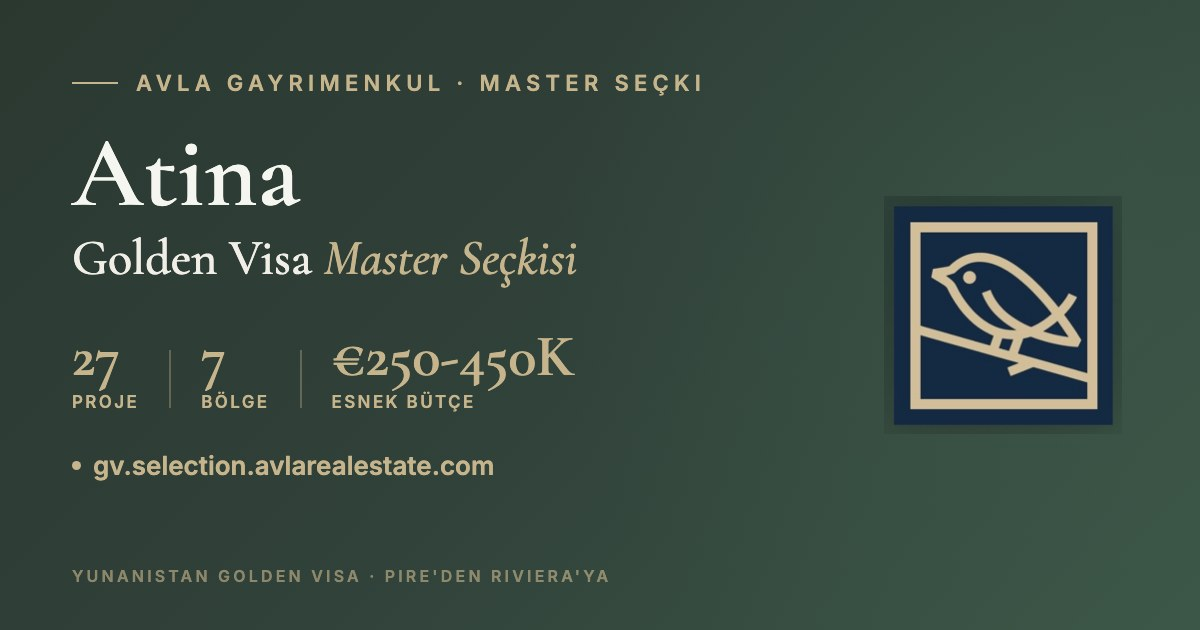
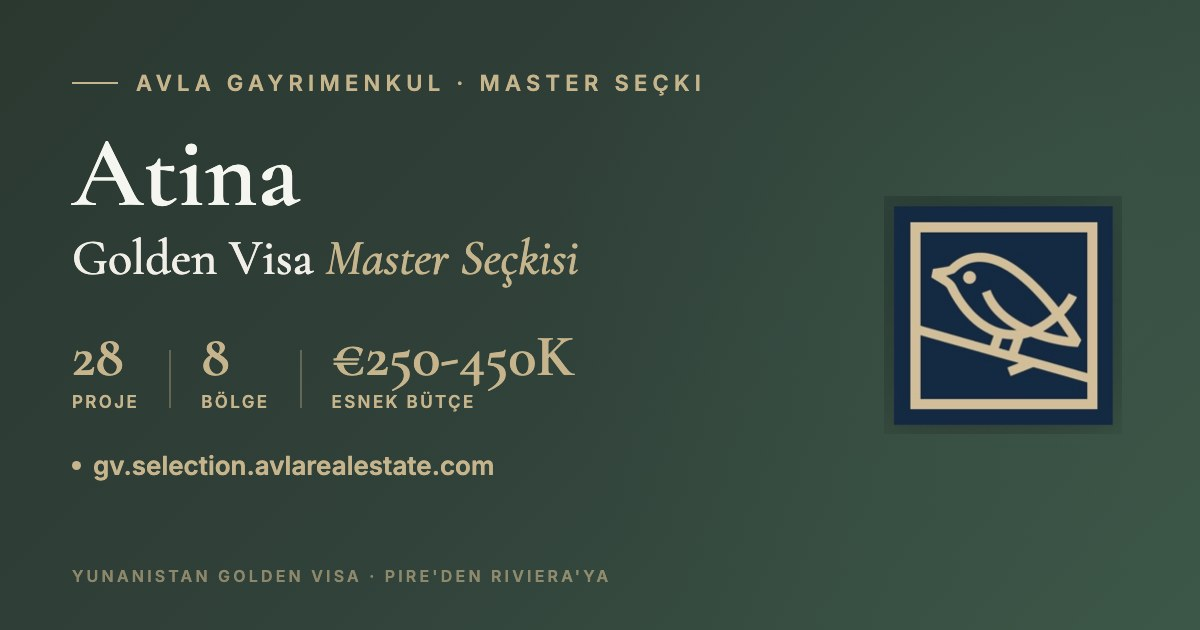
Selanik bolgesi + Thessaloniki Bay Residences karti (git'e hic islenmemis canli is geri alindi)
Bu is 26.08.2026'da yerelden yayina alinmis ama git'e ISLENMEMISTI: Drive'daki
calisma kopyasinda refs/heads/main yoktu ve 27.08 12:20'den kalma bir main.lock
git'i kilitliyordu (yarim kalmis commit). Sonuc: origin/main canlidan 3,2 KB geride
kaldi. Bugunku lightbox onarimi origin/main'den push edildigi icin bu kart canlidan
dustu; bu commit onu geri koyuyor (TR + EN + iki og-cover).

DERS: gv.selection deploy'u git-linked -- yerelden yayina alip commit etmemek
bir sonraki push'ta canliyi sessizce geri sariyor.

Changed region(s): [[0.2158, 0.3619, 0.4933, 0.4524], [0.0617, 0.5429, 0.1233, 0.6032], [0.1542, 0.5429, 0.2158, 0.6032]]

diff --git a/index.html b/index.html
@@ -3,17 +3,17 @@
 <head>
 <meta charset="UTF-8">
 <meta name="viewport" content="width=device-width, initial-scale=1.0">
-<meta name="description" content="Avla Gayrimenkul A.Ş. · Avla Atina Golden Visa · Master Seçki (27) — 27 proje, €250-450K · esnek, Atina Golden Visa master kataloğu.">
-<title>Avla · Atina Golden Visa · Master Seçki (27)</title>
+<meta name="description" content="Avla Gayrimenkul A.Ş. · Avla Atina Golden Visa · Master Seçki (28) — 28 proje, €250-450K · esnek, Atina Golden Visa master kataloğu.">
+<title>Avla · Atina Golden Visa · Master Seçki (28)</title>
 
 <!-- Open Graph (Facebook, WhatsApp, LinkedIn, Telegram) -->
 <meta property="og:type" content="website">
 <meta property="og:site_name" content="Avla Gayrimenkul">
-<meta property="og:title" content="Avla Atina Golden Visa · Master Seçki (27)">
-<meta property="og:description" content="Atina Golden Visa master kataloğu — 27 proje · Pire, Şehir Merkezi, Akademia Platonos, Mo · Kifisia / Nea Erythraiaschato, Agios Dimitrios ve Riviera akslarında, €250-450K bandında. Detaylı broşürler ve fizibilite raporlarıyla.">
+<meta property="og:title" content="Avla Atina Golden Visa · Master Seçki (28)">
+<meta property="og:description" content="Atina Golden Visa master kataloğu — 28 proje · Pire, Şehir Merkezi, Akademia Platonos, Mo · Kifisia / Nea Erythraiaschato, Agios Dimitrios ve Riviera akslarında, €250-450K bandında. Detaylı broşürler ve fizibilite raporlarıyla.">
 <meta property="og:url" content="https://gv.selection.avlarealestate.com/">
-<meta property="og:image" content="https://gv.selection.avlarealestate.com/og-cover.jpg?v=27">
-<meta property="og:image:secure_url" content="https://gv.selection.avlarealestate.com/og-cover.jpg?v=27">
+<meta property="og:image" content="https://gv.selection.avlarealestate.com/og-cover.jpg?v=28">
+<meta property="og:image:secure_url" content="https://gv.selection.avlarealestate.com/og-cover.jpg?v=28">
 <meta property="og:image:type" content="image/jpeg">
 <meta property="og:image:width" content="1200">
 <meta property="og:image:height" content="630">
@@ -22,9 +22,9 @@
 
 <!-- Twitter Card -->
 <meta name="twitter:card" content="summary_large_image">
-<meta name="twitter:title" content="Avla Atina Golden Visa · Master Seçki (27)">
-<meta name="twitter:description" content="Atina Golden Visa master kataloğu — 27 proje, €250-450K, Pire-Riviera çapraz aks.">
-<meta name="twitter:image" content="https://gv.selection.avlarealestate.com/og-cover.jpg?v=27">
+<meta name="twitter:title" content="Avla Atina Golden Visa · Master Seçki (28)">
+<meta name="twitter:description" content="Atina Golden Visa master kataloğu — 28 proje, €250-450K, Pire-Riviera çapraz aks.">
+<meta name="twitter:image" content="https://gv.selection.avlarealestate.com/og-cover.jpg?v=28">
 <meta name="twitter:image:alt" content="Avla Gayrimenkul · Atina Golden Visa Master Seçkisi">
 
 <link rel="icon" type="image/png" href="avla-logo.png">
@@ -196,6 +196,8 @@ header .container {
 .chip-kifisia:hover { background: #6d5a9c; border-color: #6d5a9c; }
 .chip-peristeri::before { background: #6a8a65; }
 .chip-peristeri:hover { background: #6a8a65; border-color: #6a8a65; }
+.chip-selanik::before { background: #2b5f80; }
+.chip-selanik:hover { background: #2b5f80; border-color: #2b5f80; }
 .cover-kuzey { background: linear-gradient(135deg, #3a2f55 0%, #54447c 60%, #6d5a9c 100%); }
 
 .chip-riviera:hover { background: #a05230; border-color: #a05230; }
@@ -278,6 +280,7 @@ section.portfolio { padding: 3.5rem 0 4.5rem; }
 .cover-aegina  { background: linear-gradient(135deg, #1F5A5C 0%, #327779 60%, #4a9d9c 100%); }
 .cover-merkez  { background: linear-gradient(135deg, #4A2330 0%, #6B3548 60%, #8a4a65 100%); }
 .cover-bati    { background: linear-gradient(135deg, #2F4A2F 0%, #4B6B48 60%, #6a8a65 100%); }
+.cover-selanik { background: linear-gradient(135deg, #1a3a5c 0%, #2b5f80 60%, #3a85a0 100%); }
 .cover-kallithea { background: linear-gradient(135deg, #4A3D1A 0%, #6B5832 60%, #8a7345 100%); }
 .cover-agdim   { background: linear-gradient(135deg, #2B2348 0%, #3D3565 60%, #524a85 100%); }
 .cover-kuzey   { background: linear-gradient(135deg, #1A4848 0%, #2B6868 60%, #3a8585 100%); }
@@ -1028,7 +1031,7 @@ j=d.createElement(s),dl=l!='dataLayer'?'&l='+l:'';j.async=true;j.src=
 </script>
 
 <script type="application/ld+json">
-{"@context":"https://schema.org","@graph":[{"@type":"RealEstateAgent","@id":"https://www.avlarealestate.com/#organization","name":"Avla Gayrimenkul A.Ş.","alternateName":["Avla Real Estate","Avla"],"url":"https://www.avlarealestate.com","logo":"https://static.wixstatic.com/media/34bb09_5eef637c30b14c0997ad8f2689842317~mv2.jpg","description":"Türk yatırımcılara Yunanistan Golden Visa danışmanlığı veren İstanbul merkezli ihtisas firması. 2014'ten beri.","email":"realestate@avla.com.tr","telephone":"+90 532 282 2657","sameAs":["https://www.wikidata.org/wiki/Q140042281","https://www.linkedin.com/company/avla-real-estate","https://twitter.com/avlugayrimenkul","https://www.instagram.com/avla.real.estate/","https://www.facebook.com/Avla.Re/"],"identifier":{"@type":"PropertyValue","propertyID":"Wikidata","value":"Q140042281"},"areaServed":[{"@type":"Country","name":"Yunanistan"},{"@type":"Country","name":"Türkiye"}],"knowsAbout":["Greek Golden Visa","Yunanistan Golden Visa","Greek Golden Visa for Turkish investors","Athens Real Estate","αλλαγή χρήσης","€250.000 threshold","Investment Migration Greece"]},{"@type":"ItemList","@id":"https://gv.selection.avlarealestate.com/#itemlist","name":"Avla Atina Golden Visa Master Seçki","description":"Atina Golden Visa için seçilmiş 27 proje · €250.000-€450.000 bandında · Pire, Şehir Merkezi, Akademia Platonos, Moschato, Agios Dimitrios ve Atina Riviera akslarında. Tüm projeler Avla bağımsız Yunan hukuk partnerliği ile doğrulanmıştır.","numberOfItems":27,"itemListOrder":"https://schema.org/ItemListOrderAscending","provider":{"@id":"https://www.avlarealestate.com/#organization"},"about":["Yunanistan Golden Visa","€250.000 αλλαγή χρήσης (kullanım değişikliği)","€400.000 Zone B residential","Türk yatırımcılar için Atina property portföyü"],"inLanguage":"tr","url":"https://gv.selection.avlarealestate.com/"},{"@type":"Service","@id":"https://gv.selection.avlarealestate.com/#service","name":"Atina Golden Visa Mülk Seçki Danışmanlığı","provider":{"@id":"https://www.avlarealestate.com/#organization"},"areaServed":{"@type":"Country","name":"Yunanistan"},"serviceType":"Real Estate Investment Advisory","description":"€250-450K Atina Golden Visa mülk seçki danışmanlığı. 27 doğrulanmış proje, αλλαγή χρήσης ve Zone B eşikleri için detaylı broşür ve fizibilite raporları."},{"@type":"FAQPage","@id":"https://gv.selection.avlarealestate.com/#faq","mainEntity":[{"@type":"Question","name":"Avla Atina Golden Visa Master Seçkisi nedir?","acceptedAnswer":{"@type":"Answer","text":"Avla Gayrimenkul A.Ş.'nin Atina'daki 27 doğrulanmış Golden Visa-uygun projesinin küratör seçkisi. Fiyat bandı €250.000-€450.000. Pire, Şehir Merkezi, Akademia Platonos, Moschato, Agios Dimitrios ve Atina Riviera akslarında konumlanır."}},{"@type":"Question","name":"€250.000'dan başlayan projeler hangileri?","acceptedAnswer":{"@type":"Answer","text":"Master seçkisinde €250.000 başlangıç fiyatlı projeler αλλαγή χρήσης (kullanım değişikliği) kategorisinde yer alır — ticari/endüstriyel mülkün belgelendirilmiş konuta dönüşümü sonrası Golden Visa €250K eşiğinde uygundur. Detaylar her proje broşüründe."}},{"@type":"Question","name":"Bu seçki nasıl belirlendi?","acceptedAnswer":{"@type":"Answer","text":"Avla'nın bağımsız Yunan hukuk partnerliği her projeyi 4 paralel kontrolden geçirir: tapu zinciri, kadastro, vergi temizliği, takyidat. Sadece dört kontrolden de temiz çıkan projeler seçkiye dahil edilir."}},{"@type":"Question","name":"Türk yatırımcı için bu seçki neden uygun?","acceptedAnswer":{"@type":"Answer","text":"Avla Türk vatandaşlarına özel ihtisas firmasıdır — Türkçe-İngilizce-Fransızca-Yunanca dört dilli uçtan uca süreç (TCMB sermaye ihracı, apostil, AFM, Yunan banka, tapu, GV başvurusu). Seçkideki her proje Türk yatırımcı profili için filtrelenmiştir."}},{"@type":"Question","name":"Detaylı broşür ve fizibilite raporlarına nasıl ulaşırım?","acceptedAnswer":{"@type":"Answer","text":"İletişim: realestate@avla.com.tr veya WhatsApp +90 532 282 2657. Avla ekibi profilinize uygun 2-3 projeyi seçer, detaylı broşür ve fizibilite raporlarını gönderir, ardından Atina ziyaret turu organizasyonu yapar."}}]},{"@type":"BreadcrumbList","itemListElement":[{"@type":"ListItem","position":1,"name":"Avla Gayrimenkul A.Ş.","item":"https://www.avlarealestate.com"},{"@type":"ListItem","position":2,"name":"Yunanistan Golden Visa","item":"https://www.avlarealestate.com/yunanistan-golden-visa"},{"@type":"ListItem","position":3,"name":"Atina Master Seçki","item":"https://gv.selection.avlarealestate.com/"}]}]}
+{"@context":"https://schema.org","@graph":[{"@type":"RealEstateAgent","@id":"https://www.avlarealestate.com/#organization","name":"Avla Gayrimenkul A.Ş.","alternateName":["Avla Real Estate","Avla"],"url":"https://www.avlarealestate.com","logo":"https://static.wixstatic.com/media/34bb09_5eef637c30b14c0997ad8f2689842317~mv2.jpg","description":"Türk yatırımcılara Yunanistan Golden Visa danışmanlığı veren İstanbul merkezli ihtisas firması. 2014'ten beri.","email":"realestate@avla.com.tr","telephone":"+90 532 282 2657","sameAs":["https://www.wikidata.org/wiki/Q140042281","https://www.linkedin.com/company/avla-real-estate","https://twitter.com/avlugayrimenkul","https://www.instagram.com/avla.real.estate/","https://www.facebook.com/Avla.Re/"],"identifier":{"@type":"PropertyValue","propertyID":"Wikidata","value":"Q140042281"},"areaServed":[{"@type":"Country","name":"Yunanistan"},{"@type":"Country","name":"Türkiye"}],"knowsAbout":["Greek Golden Visa","Yunanistan Golden Visa","Greek Golden Visa for Turkish investors","Athens Real Estate","αλλαγή χρήσης","€250.000 threshold","Investment Migration Greece"]},{"@type":"ItemList","@id":"https://gv.selection.avlarealestate.com/#itemlist","name":"Avla Atina Golden Visa Master Seçki","description":"Atina Golden Visa için seçilmiş 28 proje · €250.000-€450.000 bandında · Pire, Şehir Merkezi, Akademia Platonos, Moschato, Agios Dimitrios ve Atina Riviera akslarında. Tüm projeler Avla bağımsız Yunan hukuk partnerliği ile doğrulanmıştır.","numberOfItems":28,"itemListOrder":"https://schema.org/ItemListOrderAscending","provider":{"@id":"https://www.avlarealestate.com/#organization"},"about":["Yunanistan Golden Visa","€250.000 αλλαγή χρήσης (kullanım değişikliği)","€400.000 Zone B residential","Türk yatırımcılar için Atina property portföyü"],"inLanguage":"tr","url":"https://gv.selection.avlarealestate.com/"},{"@type":"Service","@id":"https://gv.selection.avlarealestate.com/#service","name":"Atina Golden Visa Mülk Seçki Danışmanlığı","provider":{"@id":"https://www.avlarealestate.com/#organization"},"areaServed":{"@type":"Country","name":"Yunanistan"},"serviceType":"Real Estate Investment Advisory","description":"€250-450K Atina Golden Visa mülk seçki danışmanlığı. 28 doğrulanmış proje, αλλαγή χρήσης ve Zone B eşikleri için detaylı broşür ve fizibilite raporları."},{"@type":"FAQPage","@id":"https://gv.selection.avlarealestate.com/#faq","mainEntity":[{"@type":"Question","name":"Avla Atina Golden Visa Master Seçkisi nedir?","acceptedAnswer":{"@type":"Answer","text":"Avla Gayrimenkul A.Ş.'nin Atina'daki 28 doğrulanmış Golden Visa-uygun projesinin küratör seçkisi. Fiyat bandı €250.000-€450.000. Pire, Şehir Merkezi, Akademia Platonos, Moschato, Agios Dimitrios ve Atina Riviera akslarında konumlanır."}},{"@type":"Question","name":"€250.000'dan başlayan projeler hangileri?","acceptedAnswer":{"@type":"Answer","text":"Master seçkisinde €250.000 başlangıç fiyatlı projeler αλλαγή χρήσης (kullanım değişikliği) kategorisinde yer alır — ticari/endüstriyel mülkün belgelendirilmiş konuta dönüşümü sonrası Golden Visa €250K eşiğinde uygundur. Detaylar her proje broşüründe."}},{"@type":"Question","name":"Bu seçki nasıl belirlendi?","acceptedAnswer":{"@type":"Answer","text":"Avla'nın bağımsız Yunan hukuk partnerliği her projeyi 4 paralel kontrolden geçirir: tapu zinciri, kadastro, vergi temizliği, takyidat. Sadece dört kontrolden de temiz çıkan projeler seçkiye dahil edilir."}},{"@type":"Question","name":"Türk yatırımcı için bu seçki neden uygun?","acceptedAnswer":{"@type":"Answer","text":"Avla Türk vatandaşlarına özel ihtisas firmasıdır — Türkçe-İngilizce-Fransızca-Yunanca dört dilli uçtan uca süreç (TCMB sermaye ihracı, apostil, AFM, Yunan banka, tapu, GV başvurusu). Seçkideki her proje Türk yatırımcı profili için filtrelenmiştir."}},{"@type":"Question","name":"Detaylı broşür ve fizibilite raporlarına nasıl ulaşırım?","acceptedAnswer":{"@type":"Answer","text":"İletişim: realestate@avla.com.tr veya WhatsApp +90 532 282 2657. Avla ekibi profilinize uygun 2-3 projeyi seçer, detaylı broşür ve fizibilite raporlarını gönderir, ardından Atina ziyaret turu organizasyonu yapar."}}]},{"@type":"BreadcrumbList","itemListElement":[{"@type":"ListItem","position":1,"name":"Avla Gayrimenkul A.Ş.","item":"https://www.avlarealestate.com"},{"@type":"ListItem","position":2,"name":"Yunanistan Golden Visa","item":"https://www.avlarealestate.com/yunanistan-golden-visa"},{"@type":"ListItem","position":3,"name":"Atina Master Seçki","item":"https://gv.selection.avlarealestate.com/"}]}]}
 </script>
 
 
@@ -1123,7 +1126,7 @@ j=d.createElement(s),dl=l!='dataLayer'?'&l='+l:'';j.async=true;j.src=
     </a>
     <div class="header-right">
       <div class="header-meta">
-        <strong>Master Katalog</strong> · 27 Proje · 30 Haziran 2026
+        <strong>Master Katalog</strong> · 28 Proje · 30 Haziran 2026
       </div>
       <div class="lang-switch" aria-label="Dil seçenekleri">
         <a class="active" href="/" aria-current="page">TR</a>
@@ -1134,7 +1137,7 @@ j=d.createElement(s),dl=l!='dataLayer'?'&l='+l:'';j.async=true;j.src=
 </header>
 <section class="hero">
   <div class="container hero-content">
-    <div class="hero-eyebrow">Avla Gayrimenkul · 27 Proje · Pire · Şehir Merkezi · Riviera · Kifisia / Nea Erythraia</div>
+    <div class="hero-eyebrow">Avla Gayrimenkul · 28 Proje · Pire · Şehir Merkezi · Riviera · Kifisia / Nea Erythraia</div>
     <h1>Atina Golden Visa <em>Master Seçkisi</em></h1>
     <p class="lead">Atina'nın doğu-batı eksenindeki <strong><span data-auto="proje-total">15</span> seçkin Golden Visa projesi</strong> — €250-450K geniş bütçe yelpazesinde, Pire'den Riviera'ya, Akademia Platonos'tan Agios Dimitrios'a uzanan <span data-auto="bolge">6</span> ana bölgede özenle eklenmiş Avla portföyü. Tüm projeler için detaylı broşürler, bölge raporları ve fizibilite çalışmaları sunulmuştur.</p>
     <div class="hero-stats">
@@ -1313,6 +1316,7 @@ j=d.createElement(s),dl=l!='dataLayer'?'&l='+l:'';j.async=true;j.src=
       <button class="chip chip-riviera" data-subregion="riviera" title="Güney Atina · Riviera">Güney Atina · Riviera</button>
       <button class="chip chip-kifisia" data-subregion="kifisia" title="Kifisia · Nea Erythraia (Kuzey Atina)">Kifisia · Nea Erythraia</button>
       <button class="chip chip-peristeri" data-subregion="peristeri" title="Peristeri (Batı Atina)">Peristeri</button>
+      <button class="chip chip-selanik" data-subregion="selanik" title="Selanik (Kuzey Yunanistan)">Selanik</button>
     </div>
   </div>
 </div>
@@ -1322,7 +1326,7 @@ j=d.createElement(s),dl=l!='dataLayer'?'&l='+l:'';j.async=true;j.src=
     <div class="map-head">
       <div class="hero-eyebrow"><span class="m-berkay">Avla'nın Atina Golden Visa Master Seçkisi · <span data-auto="proje-berkay">22</span> Proje</span><span class="m-avla"><span data-auto="proje-total">22</span> Avla Seçkisini Haritada Gör · ★ Danışmanınız Athena'nın Seçkisi</span></div>
       <h2><span class="m-berkay">Pire'den <em>Riviera</em>'ya</span><span class="m-avla">Pire'den <em>Riviera</em>'ya</span></h2>
-      <p class="map-sub"><span class="m-berkay">27 proje · Pire · Renti · Mikrolimano · Ampelokipi · Pangrati · Moschato · Agios Dimitrios · Akademia Platonos · Elliniko · Glyfada — pin'e tıklayın, detay görün.</span><span class="m-avla"><span data-auto="proje-total">22</span> Avla projesinin tamamı — <span data-auto="proje-total">22</span> Avla GV projesi — pin'e tıklayın detay görün.</span></p>
+      <p class="map-sub"><span class="m-berkay">28 proje · Pire · Renti · Mikrolimano · Ampelokipi · Pangrati · Moschato · Agios Dimitrios · Akademia Platonos · Elliniko · Glyfada — pin'e tıklayın, detay görün.</span><span class="m-avla"><span data-auto="proje-total">22</span> Avla projesinin tamamı — <span data-auto="proje-total">22</span> Avla GV projesi — pin'e tıklayın detay görün.</span></p>
     </div>
     <div id="avla-map"></div>
     <div class="map-legend">
@@ -1335,6 +1339,7 @@ j=d.createElement(s),dl=l!='dataLayer'?'&l='+l:'';j.async=true;j.src=
       <span class="legend-item"><i style="background:#a05230"></i>Güney Atina · Riviera</span>
       <span class="legend-item"><i style="background:#6d5a9c"></i>Kifisia · Nea Erythraia</span>
       <span class="legend-item"><i style="background:#6a8a65"></i>Peristeri</span>
+      <span class="legend-item"><i style="background:#2b5f80"></i>Selanik</span>
             <span class="legend-item"><i style="background:#2f8f7d"></i>Lefkada</span>
     </div>
   </div>
@@ -2290,6 +2295,47 @@ j=d.createElement(s),dl=l!='dataLayer'?'&l='+l:'';j.async=true;j.src=
       </div>
     </div>
 
+    <div class="group-head" data-group="selanik">
+      <h3>Selanik · Kuzey Yunanistan <small>Selanik · 1 Proje</small></h3>
+      <span class="group-tag">SELANİK</span>
+    </div>
+    <div class="property-grid">
+      <div class="property has-photo" data-berkay-selection="0" data-region="selanik" data-budget="fit">
+        <div class="property-cover cover-selanik">
+          <img width="1000" height="563" class="cover-img" src="/img/covers/thessaloniki-bay-9bc200b8.webp" loading="lazy" decoding="async" alt="Thessaloniki Bay Residences — Selanik">
+          <div class="cover-overlay"></div>
+          <div class="cover-name-block">
+            <div class="cover-name">Thessaloniki Bay Residences</div>
+          </div>
+        </div>
+        <div class="property-body">
+          <h3 class="property-title">Thessaloniki Bay Residences</h3>
+          <div class="property-location">Selanik · Kuzey Yunanistan</div>
+          <div class="specs">
+            <div class="spec"><span class="lbl">Daire Tipi</span><span class="val">1+1 (37 ünite)</span></div>
+            <div class="spec"><span class="lbl">Fiyat Bandı</span><span class="val">€250.000 – €397.000</span></div>
+            <div class="spec"><span class="lbl">Kira</span><span class="val">3 yıl %3 garanti</span></div>
+            <div class="spec"><span class="lbl">Manzara</span><span class="val">Selanik Körfezi manzarası</span></div>
+          </div>
+          <div class="tags"><span class="tag">Golden Visa</span><span class="tag">Deniz Manzarası</span><span class="tag">Kira Garantisi</span><span class="tag">%10 Peşinat</span><span class="tag">Ön-Satış</span></div>
+          <div class="rating">
+            <div class="rating-row"><span class="rating-lbl">Konum</span><span class="rating-stars" data-score="4.5">★★★★<span class="rating-half">★</span></span></div>
+            <div class="rating-row"><span class="rating-lbl">Yatırım</span><span class="rating-stars" data-score="4.5">★★★★<span class="rating-half">★</span></span></div>
+            <div class="rating-row"><span class="rating-lbl">Yapı</span><span class="rating-stars" data-score="4">★★★★</span></div>
+            <div class="rating-row"><span class="rating-lbl">Likidite</span><span class="rating-stars" data-score="4">★★★★</span></div>
+          </div>
+          <div class="note">Selanik'in doğu sahilinde, kıyı parkına yürüme mesafesinde butik 1+1 rezidanslar (33–53 m²; balkonla 37–63 m²). Üst katlarda Selanik Körfezi manzarası. 3 yıl %3 kira garantisi, %10 peşinat + 3 taksit, teslim Haziran 2028. €250.000–€397.000; Golden Visa'ya uygun. Yunanistan'ın ikinci metropolünde yıl boyu kiracı tabanı.</div>
+          <div class="yorum-content" id="yorum-thessaloniki-bay-residences" data-rank="19" hidden>Thessaloniki Bay Residences — Selanik'in doğu sahilinde, kıyı parkına yürüme mesafesinde butik bir 1+1 rezidans projesi (37 ünite; 33–53 m², balkonla 37–63 m²). Üst katlarda Selanik Körfezi manzarası. 3 yıl %3 kira garantisi, %10 peşinat + 3 taksit ödeme planı; teslim Haziran 2028. €250.000–€397.000 bandıyla Golden Visa'ya uygun. Yunanistan'ın ikinci metropolü Selanik'in üniversite, hastane ve iş merkezleriyle beslenen yıl boyu kiracı tabanı, kira garantisinin ötesinde uzun vadeli doluluk güvencesi sağlıyor.</div>
+          <div class="actions">
+            <a class="btn btn-primary" href="https://a0182assets.vercel.app/a0182_tanitim.mp4" target="_blank" rel="noopener">▶ Video</a>
+            <a class="btn btn-outline" href="https://www.google.com/maps/search/?api=1&query=Thessaloniki%2C+Greece" target="_blank">Konum</a>
+            <button type="button" class="btn btn-yorum yorum-btn" data-yorum-target="yorum-thessaloniki-bay-residences">Yorum</button>
+            <a class="btn btn-info" href="https://www.avlarealestate.com/properties/thessaloniki-bay-residences-thessaloniki" target="_blank" rel="noopener">İlan</a>
+          </div>
+        </div>
+      </div>
+    </div>
+
   </div>
 </section>
 
@@ -2407,7 +2453,7 @@ j=d.createElement(s),dl=l!='dataLayer'?'&l='+l:'';j.async=true;j.src=
   <div class="footer-tag">Avla Gayrimenkul A.Ş.</div>
   <div class="footer-meta">
     <strong>Katalog:</strong> Avla Atina Master &nbsp;·&nbsp; <strong>Bütçe:</strong> €250-450K &nbsp;·&nbsp; <strong>Teslim:</strong> Hazır — 2028 Q4<br>
-    <strong>Strateji:</strong> Atina Golden Visa master kataloğu · 27 proje · Pire + Şehir Merkezi + Riviera + Moschato + Akademia Platonos + Agios Dimitrios<br>
+    <strong>Strateji:</strong> Atina Golden Visa master kataloğu · 28 proje · Pire + Şehir Merkezi + Riviera + Moschato + Akademia Platonos + Agios Dimitrios<br>
     <strong>Hazırlayan:</strong> Sami Akbeniz · Avla Gayrimenkul A.Ş. &nbsp;·&nbsp; realestate@avla.com.tr · +90 532 282 2657
   </div>
   <div class="footer-wa">
@@ -2492,6 +2538,7 @@ const subRegionMap = {
   'yorum-the-one-glyfada': 'riviera',
   'yorum-the-north-village': 'kifisia',
   'yorum-terrace-heights': 'peristeri',
+  'yorum-thessaloniki-bay-residences': 'selanik',
   'yorum-t18-city-residences': 'merkez',
   'yorum-ap37-suites': 'agios-dimitrios'
 };
@@ -2516,6 +2563,7 @@ const neighborhoodMap = {
   'yorum-the-one-glyfada': 'Glyfada',
   'yorum-the-north-village': 'Nea Erythraia',
   'yorum-terrace-heights': 'Peristeri',
+  'yorum-thessaloniki-bay-residences': 'Selanik',
   'yorum-t18-city-residences': 'Atina Merkezi',
   'yorum-ap37-suites': 'Agios Dimitrios'
 };
@@ -2586,7 +2634,7 @@ document.querySelectorAll('.chip[data-subregion]').forEach(chip => {
 
 
 // Group-head h3 + group-tag tıklaması: ilgili chip'i tetikle (filter + scroll)
-const groupToChipMap = {'pire':'pire','aegina':'aegina','merkez':'merkez','riviera':'riviera','kuzey':'kifisia','bati':'peristeri'};
+const groupToChipMap = {'pire':'pire','aegina':'aegina','merkez':'merkez','riviera':'riviera','kuzey':'kifisia','bati':'peristeri','selanik':'selanik'};
 document.querySelectorAll('.group-head').forEach(gh => {
   const groupName = gh.dataset.group;
   const chipKey = groupToChipMap[groupName];
@@ -2648,12 +2696,13 @@ function AVLA_HARITA_INIT(){
     {"code": "AV-OIK-04", "name": "THE ONE Glyfada ★", "region": "riviera", "color": "#a05230", "lat": 37.8807, "lng": 23.7552, "addr": "Vouliagmenis Ave, Glyfada, Athens", "brochure": "17_the_one_glyfada.pdf", "bg": true},
     {"code": "AV-RNT-01", "name": "The North Village ★", "region": "kuzey", "color": "#6d5a9c", "lat": 38.087, "lng": 23.805, "addr": "Nea Erythraia · Kifisia", "brochure": "20_the_north_village.pdf", "bg": true},
     {"code": "AV-PER-01", "name": "Terrace Heights ★", "region": "bati", "color": "#6a8a65", "lat": 38.0186, "lng": 23.6960, "addr": "Peristeri, West Athens", "ilan": "https://www.avlarealestate.com/properties/terrace-heights-peristeri-west-athens-golden-visa", "bg": true},
-          {"code": "AV-LEF-01", "name": "Lefkada Crystal Waters", "region": "lefkada", "color": "#2f8f7d", "lat": 38.7647, "lng": 20.7222, "addr": "Nikiana, Lefkada", "brochure": "29_lefkada_crystal_waters.pdf", "bg": true}
+          {"code": "AV-LEF-01", "name": "Lefkada Crystal Waters", "region": "lefkada", "color": "#2f8f7d", "lat": 38.7647, "lng": 20.7222, "addr": "Nikiana, Lefkada", "brochure": "29_lefkada_crystal_waters.pdf", "bg": true},
+    {"code": "AV-TH-01", "name": "Thessaloniki Bay Residences", "region": "selanik", "color": "#2b5f80", "lat": 40.60, "lng": 22.95, "addr": "Thessaloniki, Greece", "ilan": "https://www.avlarealestate.com/properties/thessaloniki-bay-residences-thessaloniki", "bg": true}
   ];
   const map = L.map('avla-map', { scrollWheelZoom: false }).setView([37.96, 23.72], 11);
-  L.tileLayer('https://{s}.basemaps.cartocdn.com/light_all/{z}/{x}/{y}{r}.png', {
-    attribution: '&copy; OpenStreetMap &copy; CARTO',
-    subdomains: 'abcd', maxZoom: 19
+  L.tileLayer('https://server.arcgisonline.com/ArcGIS/rest/services/Canvas/World_Light_Gray_Base/MapServer/tile/{z}/{y}/{x}', {
+    attribution: '&copy; Esri &copy; OpenStreetMap contributors',
+    subdomains: 'abcd', maxZoom:16
   }).addTo(map);
   function makeIcon(color) {
     return L.divIcon({

diff --git a/en/index.html b/en/index.html
@@ -3,17 +3,17 @@
 <head>
 <meta charset="UTF-8">
 <meta name="viewport" content="width=device-width, initial-scale=1.0">
-<meta name="description" content="Avla Real Estate · Avla Atina Golden Visa · Master Seçki (27) — 27 proje, €250-450K · esnek, Atina Golden Visa master kataloğu.">
-<title>Avla · Athens Golden Visa · Master Selection (27)</title>
+<meta name="description" content="Avla Real Estate · Avla Atina Golden Visa · Master Seçki (28) — 28 proje, €250-450K · esnek, Atina Golden Visa master kataloğu.">
+<title>Avla · Athens Golden Visa · Master Selection (28)</title>
 
 <!-- Open Graph (Facebook, WhatsApp, LinkedIn, Telegram) -->
 <meta property="og:type" content="website">
 <meta property="og:site_name" content="Avla Gayrimenkul">
-<meta property="og:title" content="Avla Atina Golden Visa · Master Seçki (27)">
-<meta property="og:description" content="Athens Golden Visa master catalog — 27 projects across Piraeus, City Center, Akademia Platonos, Mos · Kifisia / Nea Erythraiachato, Agios Dimitrios and Riviera axes, in the €250-450K range. With detailed brochures and feasibility reports.">
+<meta property="og:title" content="Avla Atina Golden Visa · Master Seçki (28)">
+<meta property="og:description" content="Athens Golden Visa master catalog — 28 projects across Piraeus, City Center, Akademia Platonos, Mos · Kifisia / Nea Erythraiachato, Agios Dimitrios and Riviera axes, in the €250-450K range. With detailed brochures and feasibility reports.">
 <meta property="og:url" content="https://gv.selection.avlarealestate.com/">
-<meta property="og:image" content="https://gv.selection.avlarealestate.com/en/og-cover.jpg?v=27">
-<meta property="og:image:secure_url" content="https://gv.selection.avlarealestate.com/en/og-cover.jpg?v=27">
+<meta property="og:image" content="https://gv.selection.avlarealestate.com/en/og-cover.jpg?v=28">
+<meta property="og:image:secure_url" content="https://gv.selection.avlarealestate.com/en/og-cover.jpg?v=28">
 <meta property="og:image:type" content="image/jpeg">
 <meta property="og:image:width" content="1200">
 <meta property="og:image:height" content="630">
@@ -22,9 +22,9 @@
 
 <!-- Twitter Card -->
 <meta name="twitter:card" content="summary_large_image">
-<meta name="twitter:title" content="Avla Atina Golden Visa · Master Seçki (27)">
-<meta name="twitter:description" content="Athens Golden Visa master catalog — 27 projects, €250-450K, Piraeus-Riviera cross axis.">
-<meta name="twitter:image" content="https://gv.selection.avlarealestate.com/en/og-cover.jpg?v=27">
+<meta name="twitter:title" content="Avla Atina Golden Visa · Master Seçki (28)">
+<meta name="twitter:description" content="Athens Golden Visa master catalog — 28 projects, €250-450K, Piraeus-Riviera cross axis.">
+<meta name="twitter:image" content="https://gv.selection.avlarealestate.com/en/og-cover.jpg?v=28">
 <meta name="twitter:image:alt" content="Avla Real Estate · Athens Golden Visa Master Selection">
 
 <link rel="icon" type="image/png" href="avla-logo.png">
@@ -196,6 +196,8 @@ header .container {
 .chip-kifisia:hover { background: #6d5a9c; border-color: #6d5a9c; }
 .chip-peristeri::before { background: #6a8a65; }
 .chip-peristeri:hover { background: #6a8a65; border-color: #6a8a65; }
+.chip-selanik::before { background: #2b5f80; }
+.chip-selanik:hover { background: #2b5f80; border-color: #2b5f80; }
 .cover-kuzey { background: linear-gradient(135deg, #3a2f55 0%, #54447c 60%, #6d5a9c 100%); }
 
 .chip-riviera:hover { background: #a05230; border-color: #a05230; }
@@ -278,6 +280,7 @@ section.portfolio { padding: 3.5rem 0 4.5rem; }
 .cover-aegina  { background: linear-gradient(135deg, #1F5A5C 0%, #327779 60%, #4a9d9c 100%); }
 .cover-merkez  { background: linear-gradient(135deg, #4A2330 0%, #6B3548 60%, #8a4a65 100%); }
 .cover-bati    { background: linear-gradient(135deg, #2F4A2F 0%, #4B6B48 60%, #6a8a65 100%); }
+.cover-selanik { background: linear-gradient(135deg, #1a3a5c 0%, #2b5f80 60%, #3a85a0 100%); }
 .cover-kallithea { background: linear-gradient(135deg, #4A3D1A 0%, #6B5832 60%, #8a7345 100%); }
 .cover-agdim   { background: linear-gradient(135deg, #2B2348 0%, #3D3565 60%, #524a85 100%); }
 .cover-kuzey   { background: linear-gradient(135deg, #1A4848 0%, #2B6868 60%, #3a8585 100%); }
@@ -1106,7 +1109,7 @@ j=d.createElement(s),dl=l!='dataLayer'?'&l='+l:'';j.async=true;j.src=
     </a>
     <div class="header-right">
       <div class="header-meta">
-        <strong>Master Selection</strong> · 27 Projects · 30 June 2026
+        <strong>Master Selection</strong> · 28 Projects · 30 June 2026
       </div>
       <div class="lang-switch" aria-label="Language selector">
         <a href="/" hreflang="tr" title="Türkçe sürüm">TR</a>
@@ -1117,7 +1120,7 @@ j=d.createElement(s),dl=l!='dataLayer'?'&l='+l:'';j.async=true;j.src=
 </header>
 <section class="hero">
   <div class="container hero-content">
-    <div class="hero-eyebrow">Avla Real Estate · 27 Projects · Piraeus · City Center · Riviera · Kifisia / Nea Erythraia</div>
+    <div class="hero-eyebrow">Avla Real Estate · 28 Projects · Piraeus · City Center · Riviera · Kifisia / Nea Erythraia</div>
     <h1>Athens Golden Visa <em>Master Selection</em></h1>
     <p class="lead"><strong><span data-auto="proje-total">15</span> curated Golden Visa projects</strong> across the east-west axis of Athens — in the broad €250-450K budget range, from Piraeus to the Riviera, from Akademia Platonos to Agios Dimitrios — the Avla portfolio spans 6 main regions. Detailed brochures, regional reports, and feasibility studies are provided for every project.</p>
     <div class="hero-stats">
@@ -1296,6 +1299,7 @@ j=d.createElement(s),dl=l!='dataLayer'?'&l='+l:'';j.async=true;j.src=
       <button class="chip chip-riviera" data-subregion="riviera" title="South Athens · Riviera">South Athens · Riviera</button>
       <button class="chip chip-kifisia" data-subregion="kifisia" title="Kifisia · Nea Erythraia (North Athens)">Kifisia · Nea Erythraia</button>
       <button class="chip chip-peristeri" data-subregion="peristeri" title="Peristeri (West Athens)">Peristeri</button>
+      <button class="chip chip-selanik" data-subregion="selanik" title="Thessaloniki (Northern Greece)">Thessaloniki</button>
     </div>
   </div>
 </div>
@@ -1318,6 +1322,7 @@ j=d.createElement(s),dl=l!='dataLayer'?'&l='+l:'';j.async=true;j.src=
       <span class="legend-item"><i style="background:#a05230"></i>South Athens · Riviera</span>
       <span class="legend-item"><i style="background:#6d5a9c"></i>Kifisia · Nea Erythraia</span>
       <span class="legend-item"><i style="background:#6a8a65"></i>Peristeri</span>
+      <span class="legend-item"><i style="background:#2b5f80"></i>Thessaloniki</span>
             <span class="legend-item"><i style="background:#2f8f7d"></i>Lefkada</span>
     </div>
   </div>
@@ -2273,6 +2278,47 @@ j=d.createElement(s),dl=l!='dataLayer'?'&l='+l:'';j.async=true;j.src=
       </div>
     </div>
 
+    <div class="group-head" data-group="selanik">
+      <h3>Thessaloniki · Northern Greece <small>Thessaloniki · 1 Project</small></h3>
+      <span class="group-tag">THESSALONIKI</span>
+    </div>
+    <div class="property-grid">
+      <div class="property has-photo" data-berkay-selection="0" data-region="selanik" data-budget="fit">
+        <div class="property-cover cover-selanik">
+          <img width="1000" height="563" class="cover-img" src="/img/covers/thessaloniki-bay-9bc200b8.webp" loading="lazy" decoding="async" alt="Thessaloniki Bay Residences — Thessaloniki">
+          <div class="cover-overlay"></div>
+          <div class="cover-name-block">
+            <div class="cover-name">Thessaloniki Bay Residences</div>
+          </div>
+        </div>
+        <div class="property-body">
+          <h3 class="property-title">Thessaloniki Bay Residences</h3>
+          <div class="property-location">Thessaloniki · Northern Greece</div>
+          <div class="specs">
+            <div class="spec"><span class="lbl">Home Types</span><span class="val">1-Bed (37 units)</span></div>
+            <div class="spec"><span class="lbl">Price Band</span><span class="val">€250,000 – €397,000</span></div>
+            <div class="spec"><span class="lbl">Rental</span><span class="val">3% × 3 yrs guaranteed</span></div>
+            <div class="spec"><span class="lbl">Views</span><span class="val">Bay views</span></div>
+          </div>
+          <div class="tags"><span class="tag">Golden Visa</span><span class="tag">Sea View</span><span class="tag">Rental Guarantee</span><span class="tag">10% Down</span><span class="tag">Pre-Sale</span></div>
+          <div class="rating">
+            <div class="rating-row"><span class="rating-lbl">Location</span><span class="rating-stars" data-score="4.5">★★★★<span class="rating-half">★</span></span></div>
+            <div class="rating-row"><span class="rating-lbl">Investment</span><span class="rating-stars" data-score="4.5">★★★★<span class="rating-half">★</span></span></div>
+            <div class="rating-row"><span class="rating-lbl">Build</span><span class="rating-stars" data-score="4">★★★★</span></div>
+            <div class="rating-row"><span class="rating-lbl">Liquidity</span><span class="rating-stars" data-score="4">★★★★</span></div>
+          </div>
+          <div class="note">Boutique 1-bed residences on Thessaloniki's eastern seafront, a short walk from the coastal park (33–53 m²; 37–63 m² with balconies). Upper floors enjoy bay views. 3% rental guarantee for 3 years, 10% down + 3 instalments, delivery June 2028. €250,000–€397,000; Golden Visa eligible. A year-round tenant base in Greece's second metropolis.</div>
+          <div class="yorum-content" id="yorum-thessaloniki-bay-residences" data-rank="19" hidden>Thessaloniki Bay Residences — a boutique 1-bed residence project on Thessaloniki's eastern seafront, a short walk from the coastal park (37 units; 33–53 m², 37–63 m² with balconies). Upper floors enjoy bay views. 3% rental guarantee for 3 years, 10% down + 3 instalments; delivery June 2028. Priced €250,000–€397,000 and Golden Visa eligible. Thessaloniki — Greece's second metropolis with universities, hospitals and business hubs — supplies a year-round tenant base that underpins occupancy well beyond the guarantee period.</div>
+          <div class="actions">
+            <a class="btn btn-primary" href="https://a0182assets.vercel.app/a0182_tanitim.mp4" target="_blank" rel="noopener">▶ Video</a>
+            <a class="btn btn-outline" href="https://www.google.com/maps/search/?api=1&query=Thessaloniki%2C+Greece" target="_blank">Location</a>
+            <button type="button" class="btn btn-yorum yorum-btn" data-yorum-target="yorum-thessaloniki-bay-residences">Notes</button>
+            <a class="btn btn-info" href="https://www.avlarealestate.com/properties/thessaloniki-bay-residences-thessaloniki" target="_blank" rel="noopener">Listing</a>
+          </div>
+        </div>
+      </div>
+    </div>
+
   </div>
 </section>
 
@@ -2390,7 +2436,7 @@ j=d.createElement(s),dl=l!='dataLayer'?'&l='+l:'';j.async=true;j.src=
   <div class="footer-tag">Avla Real Estate</div>
   <div class="footer-meta">
     <strong>Catalog:</strong> Avla Athens Master &nbsp;·&nbsp; <strong>Budget:</strong> €250-450K &nbsp;·&nbsp; <strong>Delivery:</strong> Ready — Q4 2028<br>
-    <strong>Strategy:</strong> Athens Golden Visa master catalog · 27 projects · Piraeus + City Center + Riviera + Moschato + Akademia Platonos + Agios Dimitrios<br>
+    <strong>Strategy:</strong> Athens Golden Visa master catalog · 28 projects · Piraeus + City Center + Riviera + Moschato + Akademia Platonos + Agios Dimitrios<br>
     <strong>Prepared by:</strong> Sami Akbeniz · Avla Real Estate &nbsp;·&nbsp; realestate@avla.com.tr · +90 532 282 2657
   </div>
   <div class="footer-wa">
@@ -2475,6 +2521,7 @@ const subRegionMap = {
   'yorum-the-one-glyfada': 'riviera',
   'yorum-the-north-village': 'kifisia',
   'yorum-terrace-heights': 'peristeri',
+  'yorum-thessaloniki-bay-residences': 'selanik',
   'yorum-t18-city-residences': 'merkez',
   'yorum-ap37-suites': 'agios-dimitrios'
 };
@@ -2499,6 +2546,7 @@ const neighborhoodMap = {
   'yorum-the-one-glyfada': 'Glyfada',
   'yorum-the-north-village': 'Nea Erythraia',
   'yorum-terrace-heights': 'Peristeri',
+  'yorum-thessaloniki-bay-residences': 'Thessaloniki',
   'yorum-t18-city-residences': 'Athens Centre',
   'yorum-ap37-suites': 'Agios Dimitrios'
 };
@@ -2567,7 +2615,7 @@ document.querySelectorAll('.chip[data-subregion]').forEach(chip => {
 
 
 // Group-head h3 + group-tag tıklaması: ilgili chip'i tetikle (filter + scroll)
-const groupToChipMap = {'pire':'pire','aegina':'aegina','merkez':'merkez','riviera':'riviera','kuzey':'kifisia','bati':'peristeri'};
+const groupToChipMap = {'pire':'pire','aegina':'aegina','merkez':'merkez','riviera':'riviera','kuzey':'kifisia','bati':'peristeri','selanik':'selanik'};
 document.querySelectorAll('.group-head').forEach(gh => {
   const groupName = gh.dataset.group;
   const chipKey = groupToChipMap[groupName];
@@ -2629,12 +2677,13 @@ function AVLA_HARITA_INIT(){
     {"code": "AV-OIK-04", "name": "THE ONE Glyfada ★", "region": "riviera", "color": "#a05230", "lat": 37.8807, "lng": 23.7552, "addr": "Vouliagmenis Ave, Glyfada, Athens", "brochure": "17_the_one_glyfada.pdf", "bg": true},
     {"code": "AV-RNT-01", "name": "The North Village ★", "region": "kuzey", "color": "#6d5a9c", "lat": 38.087, "lng": 23.805, "addr": "Nea Erythraia · Kifisia", "brochure": "20_the_north_village.pdf", "bg": true},
     {"code": "AV-PER-01", "name": "Terrace Heights ★", "region": "bati", "color": "#6a8a65", "lat": 38.0186, "lng": 23.6960, "addr": "Peristeri, West Athens", "ilan": "https://www.avlarealestate.com/en/properties/terrace-heights-peristeri-west-athens-golden-visa", "bg": true},
-          {"code": "AV-LEF-01", "name": "Lefkada Crystal Waters", "region": "lefkada", "color": "#2f8f7d", "lat": 38.7647, "lng": 20.7222, "addr": "Nikiana, Lefkada", "brochure": "29_lefkada_crystal_waters.pdf", "bg": true}
+          {"code": "AV-LEF-01", "name": "Lefkada Crystal Waters", "region": "lefkada", "color": "#2f8f7d", "lat": 38.7647, "lng": 20.7222, "addr": "Nikiana, Lefkada", "brochure": "29_lefkada_crystal_waters.pdf", "bg": true},
+    {"code": "AV-TH-01", "name": "Thessaloniki Bay Residences", "region": "selanik", "color": "#2b5f80", "lat": 40.60, "lng": 22.95, "addr": "Thessaloniki, Greece", "ilan": "https://www.avlarealestate.com/properties/thessaloniki-bay-residences-thessaloniki", "bg": true}
   ];
   const map = L.map('avla-map', { scrollWheelZoom: false }).setView([37.96, 23.72], 11);
-  L.tileLayer('https://{s}.basemaps.cartocdn.com/light_all/{z}/{x}/{y}{r}.png', {
-    attribution: '&copy; OpenStreetMap &copy; CARTO',
-    subdomains: 'abcd', maxZoom: 19
+  L.tileLayer('https://server.arcgisonline.com/ArcGIS/rest/services/Canvas/World_Light_Gray_Base/MapServer/tile/{z}/{y}/{x}', {
+    attribution: '&copy; Esri &copy; OpenStreetMap contributors',
+    subdomains: 'abcd', maxZoom:16
   }).addTo(map);
   function makeIcon(color) {
     return L.divIcon({
